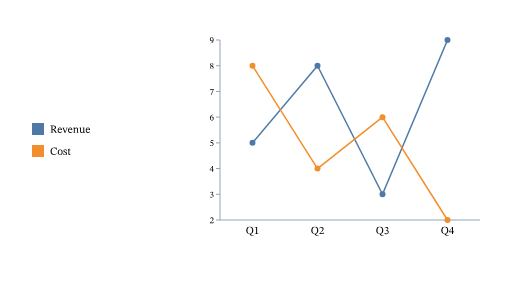
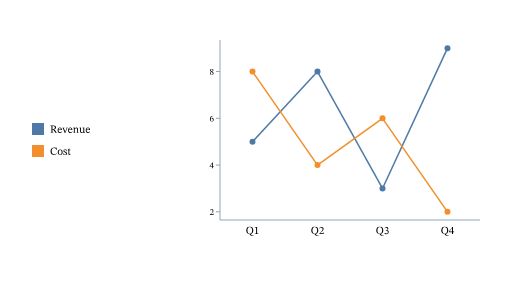
Polish: line/scatter domain padding + rounded state boxes (both mutant-proven)
Line/scatter pad the value domain 5% per end (degenerate span: max(1.0, 0.5|v|)) so extreme
points lift off the plot floor/ceiling; bars keep the signed zero-baseline domain (golden
byte-identical). State boxes draw as rounded-rect Paths (quadratic corners, r~8) via the
state styler — flowchart rects untouched (golden byte-identical), pseudostates unchanged.
Standing rule: both delete-mutants applied + observed failing (padding removal, styler
revert), restored, named in the report. 185 tests green.

diff --git a/src/main/java/com/sirentide/layout/StateDiagramLayout.java b/src/main/java/com/sirentide/layout/StateDiagramLayout.java
@@ -6,14 +6,15 @@ import com.sirentide.ir.StateDiagram;
 /// layered directed-graph engine (layering, cycle handling, edge routing, transition labels) through
 /// a state-flavored {@link NodeStyler}. The only difference from a flowchart is how a node is DRAWN:
 ///
-///   - a normal `state` → the same rect box the flowchart uses (fill inherited from the engine),
+///   - a normal `state` → a ROUNDED-rect {@link Path} (r≈8; softer than the flowchart's sharp rect,
+///     fill inherited from the engine),
 ///   - `[*]`-as-source (`__start__`, shape `"start"`) → a small filled disc,
 ///   - `[*]`-as-target (`__end__`, shape `"end"`) → a bullseye (three stacked discs).
 ///
 /// The pseudostates carry an EMPTY label (set by the parser), so the engine's label step draws no
 /// text on them; a real state keeps its centered glyph label. Edge/transition labels ride the
-/// engine's existing edge-label mechanism unchanged (FOLLOW-UP: rounded-corner state boxes — that
-/// needs a rounded-rect {@link Path}, not attempted in M1).
+/// engine's existing edge-label mechanism unchanged. The rounded box is a contract-clean `<path>`
+/// (H/V sides + Q corners) so it needs no new emitter/contract surface.
 public final class StateDiagramLayout {
 
     private StateDiagramLayout() {}
@@ -24,6 +25,7 @@ public final class StateDiagramLayout {
     private static final double END_OUTER_R = 8;           // bullseye outer disc
     private static final double END_MID_R = 6;             // bullseye white ring
     private static final double END_INNER_R = 4;           // bullseye dark centre
+    private static final double CORNER_R = 8;              // normal-state rounded-rect corner radius
 
     /// Reskin the flowchart engine's node boxes for state semantics. A full disc is a single
     /// two-arc {@link Wedge} (sweep 0→2π — the emitter draws the degenerate full circle as two
@@ -40,10 +42,40 @@ public final class StateDiagramLayout {
                 shapes.add(new Wedge(cx, cy, END_MID_R, 0, 2 * Math.PI, RING_BG));
                 shapes.add(new Wedge(cx, cy, END_INNER_R, 0, 2 * Math.PI, PSEUDO_FILL));
             }
-            // A normal state is the same rect the flowchart draws (never a diamond in a state diagram).
-            default -> shapes.add(new Rect(x, y, w, h, fill));
+            // A normal state is a ROUNDED-rect {@link Path} (r≈8) — softer than the flowchart's sharp
+            // Rect, drawn as a contract-clean `<path>`: H/V straight sides + Q quadratic corners (all
+            // in the path alphabet). Never a diamond in a state diagram; pseudostates stay discs above.
+            default -> shapes.add(new Path(roundedRect(x, y, w, h), fill));
         }
     };
+
+    /// A rounded-rectangle path for a normal state box: straight H/V sides with a Q quadratic at each
+    /// corner (radius {@link #CORNER_R}, clamped so it never exceeds half the box's smaller side).
+    ///   `M x+r,y  H x+w-r  Q x+w,y x+w,y+r  V y+h-r  Q x+w,y+h x+w-r,y+h
+    ///    H x+r    Q x,y+h x,y+h-r          V y+r     Q x,y x+r,y  Z`
+    private static String roundedRect(double x, double y, double w, double h) {
+        double r = Math.min(CORNER_R, Math.min(w, h) / 2);
+        return "M " + fmt(x + r) + " " + fmt(y)
+            + " H " + fmt(x + w - r)
+            + " Q " + fmt(x + w) + " " + fmt(y) + " " + fmt(x + w) + " " + fmt(y + r)
+            + " V " + fmt(y + h - r)
+            + " Q " + fmt(x + w) + " " + fmt(y + h) + " " + fmt(x + w - r) + " " + fmt(y + h)
+            + " H " + fmt(x + r)
+            + " Q " + fmt(x) + " " + fmt(y + h) + " " + fmt(x) + " " + fmt(y + h - r)
+            + " V " + fmt(y + r)
+            + " Q " + fmt(x) + " " + fmt(y) + " " + fmt(x + r) + " " + fmt(y)
+            + " Z";
+    }
+
+    /// Deterministic 3-dp number formatting (byte-identical bakes, docs/DESIGN.md §6) — mirrors the
+    /// flowchart engine's arrowhead formatter so state paths format identically.
+    private static String fmt(double v) {
+        if (!Double.isFinite(v)) {
+            v = 0.0;
+        }
+        double r = Math.round(v * 1000.0) / 1000.0;
+        return r == Math.rint(r) ? Long.toString((long) r) : Double.toString(r);
+    }
 
     public static LaidOut layout(StateDiagram sd) {
         return FlowchartLayout.layout(sd.graph(), STYLER);

diff --git a/src/test/java/com/sirentide/StateDiagramTest.java b/src/test/java/com/sirentide/StateDiagramTest.java
@@ -11,6 +11,7 @@ import com.sirentide.ir.FlowEdge;
 import com.sirentide.ir.FlowNode;
 import com.sirentide.ir.StateDiagram;
 import com.sirentide.layout.LaidOut;
+import com.sirentide.layout.Path;
 import com.sirentide.layout.Rect;
 import com.sirentide.layout.Shape;
 import com.sirentide.layout.StateDiagramLayout;
@@ -163,8 +164,25 @@ class StateDiagramTest {
         // The start pseudostate = ONE disc; the end bullseye = THREE stacked discs → 4 Wedges total.
         assertEquals(4, countShapes(laid, Wedge.class),
             "1 start disc + 3 bullseye discs (dark/white/dark)");
-        // The two normal states (Idle, Running) draw as rects — the pseudostates never do.
-        assertEquals(2, countShapes(laid, Rect.class), "one rect per NORMAL state, none for pseudostates");
+        // Normal states are ROUNDED-rect Paths now (Q-corner boxes), NOT sharp Rects — none anywhere.
+        assertEquals(0, countShapes(laid, Rect.class), "no sharp rects — states are rounded paths");
+    }
+
+    /// Each normal `state` box is a rounded-rect {@link Path} carrying Q (quadratic corner) commands
+    /// and NO {@link Rect} — the flowchart's sharp Rect was reskinned to a soft box. Arrowhead paths
+    /// are straight triangles (M/L/Z, no Q), so filtering on Q isolates exactly the state boxes.
+    @Test
+    void normalStatesAreRoundedRectPathsNotRects() {
+        LaidOut laid = StateDiagramLayout.layout(parse(LIFECYCLE));
+        long roundedBoxes = laid.shapes().stream()
+            .filter(s -> s instanceof Path)
+            .map(s -> ((Path) s).d())
+            .filter(d -> d.contains(" Q "))
+            .count();
+        assertEquals(2, roundedBoxes,
+            "each of the 2 normal states (Idle, Running) is a rounded-rect path with Q corners");
+        assertEquals(0, countShapes(laid, Rect.class),
+            "no sharp rects for a state box — rounded paths replace them");
     }
 
     @Test
@@ -193,7 +211,10 @@ class StateDiagramTest {
         // Idle↔Running is a cycle; the engine's back-edge handling must terminate and still render
         // both states (the styler seam doesn't touch layering).
         LaidOut laid = StateDiagramLayout.layout(parse(LIFECYCLE));
-        assertEquals(2, countShapes(laid, Rect.class), "both cyclic states render");
+        long roundedBoxes = laid.shapes().stream()
+            .filter(s -> s instanceof Path).map(s -> ((Path) s).d())
+            .filter(d -> d.contains(" Q ")).count();
+        assertEquals(2, roundedBoxes, "both cyclic states render as rounded-rect paths");
         String svg = Sirentide.render(LIFECYCLE);
         assertNotNull(svg);
         assertTrue(svg.startsWith("<svg"), "the cycle still renders a valid svg");

diff --git a/src/test/java/com/sirentide/XyLineScatterTest.java b/src/test/java/com/sirentide/XyLineScatterTest.java
@@ -7,6 +7,9 @@ import static org.junit.jupiter.api.Assertions.assertTrue;
 import com.sirentide.api.Sirentide;
 import com.sirentide.ir.Diagram;
 import com.sirentide.ir.XyChart;
+import com.sirentide.layout.LaidOut;
+import com.sirentide.layout.Wedge;
+import com.sirentide.layout.XyChartLayout;
 import com.sirentide.parse.DslParser;
 import org.junit.jupiter.api.Test;
 
@@ -145,6 +148,28 @@ class XyLineScatterTest {
         // One series + legend → nothing to key: no swatch column, canvas not widened.
         String svg = Sirentide.render("xychart legend\n\"Jan\" : 5\n\"Feb\" : 8\n");
         assertEquals(320, svgWidth(svg), "single-series legend is ignored — canvas unchanged");
+    }
+
+    @Test
+    void lineDomainPadsSoExtremePointsClearThePlotEdges() {
+        // Line/scatter pad the value domain by 5% of the span, so the min-value dot no longer sits ON
+        // the plot floor nor the max-value dot ON the ceiling. For a no-legend chart the plot band is
+        // [plotTop=20, plotBottom=200] (MT=20, canvasH=240, MB=40). Disc centres (Wedge.cy) of the
+        // extreme points must land STRICTLY inside that band by >2px — with the raw domain they'd be
+        // exactly 20 (max) and 200 (min). Single-value rows in line mode still route to the point path.
+        XyChart chart = (XyChart) DslParser.parse("xychart line\n\"Jan\" : 5\n\"Feb\" : 8\n\"Mar\" : 3\n");
+        LaidOut laid = XyChartLayout.layout(chart);
+        double plotTop = 20;
+        double plotBottom = 200;
+        java.util.List<Double> discY = laid.shapes().stream()
+            .filter(s -> s instanceof Wedge).map(s -> ((Wedge) s).cy()).toList();
+        assertEquals(3, discY.size(), "one disc per point (3 categories, 1 series)");
+        double topDot = discY.stream().min(Double::compare).orElseThrow();      // the MAX value (8)
+        double bottomDot = discY.stream().max(Double::compare).orElseThrow();   // the MIN value (3)
+        assertTrue(topDot > plotTop + 2,
+            "max-value dot clears the plot ceiling by >2px (padded): cy=" + topDot);
+        assertTrue(bottomDot < plotBottom - 2,
+            "min-value dot clears the plot floor by >2px (padded): cy=" + bottomDot);
     }
 
     @Test

diff --git a/src/main/java/com/sirentide/layout/XyChartLayout.java b/src/main/java/com/sirentide/layout/XyChartLayout.java
@@ -199,9 +199,22 @@ public final class XyChartLayout {
             hi = 0;
         }
         boolean grouped = mode.equals("bars");
-        AxisScale axis = grouped
-            ? new AxisScale(Math.min(0, lo), Math.max(0, hi))
-            : new AxisScale(lo, hi);
+        AxisScale axis;
+        if (grouped) {
+            // Grouped bars keep the SIGNED zero-baseline domain — unchanged, byte-identical output.
+            axis = new AxisScale(Math.min(0, lo), Math.max(0, hi));
+        } else {
+            // Line / scatter: PAD the value domain by 5% of the span on each end so a min-value point
+            // doesn't sit ON the plot floor and a max-value point ON the ceiling (dots visually clipped
+            // against the axis edge). Bars never pad (they grow from a fixed zero baseline, above).
+            // DEGENERATE span (all values equal, or a single point → span 0): there is no span to take
+            // 5% of, so pad by max(1.0, half the |value|). The 1.0 floor keeps a near-zero value clear
+            // of the edges; half the magnitude keeps a large single value visibly inset rather than
+            // pinned to the plot midpoint's neighbours. Ticks stay within the PADDED [min,max].
+            double span = hi - lo;
+            double pad = span > 0 ? 0.05 * span : Math.max(1.0, 0.5 * Math.abs(lo));
+            axis = new AxisScale(lo - pad, hi + pad);
+        }
         double baselineY = grouped ? axis.project(0, plotBottom, plotTop) : plotBottom;
 
         // y-axis (full height) + the baseline x-axis.

diff --git a/src/test/java/com/sirentide/StateColonLabelTest.java b/src/test/java/com/sirentide/StateColonLabelTest.java
@@ -22,9 +22,24 @@ class StateColonLabelTest {
         // the spaced form always worked; the others must now match it exactly
         assertEquals(spaced, noBefore, "'B: go' must render identically to 'B : go'");
         assertEquals(spaced, noAfter,  "'B :go' must render identically to 'B : go'");
-        // and it's a real diagram (two state boxes), not the inert shell
+        // and it's a real diagram (two state boxes), not the inert shell. State boxes are now
+        // rounded-rect <path>s (H/V sides + Q corners); the H/V commands are emitted ONLY by that box,
+        // so a path carrying " H " is exactly one state box (glyph/arrowhead paths use only M/L/Q/A/Z).
         assertFalse(spaced.contains("width=\"120\""), "must not be the blank degrade shell");
-        assertEquals(2, spaced.split("<rect", -1).length - 1, "two state boxes: A and B");
+        assertEquals(2, stateBoxes(spaced), "two state boxes: A and B");
+    }
+
+    /// Count rounded-rect state boxes: each is a single <path> whose data carries a horizontal-lineto
+    /// (" H "), a command only the state box emits (never a glyph or arrowhead path).
+    private static int stateBoxes(String svg) {
+        int n = 0;
+        for (int i = svg.indexOf("<path"); i >= 0; i = svg.indexOf("<path", i + 1)) {
+            int end = svg.indexOf("/>", i);
+            if (end > 0 && svg.substring(i, end).contains(" H ")) {
+                n++;
+            }
+        }
+        return n;
     }
 
     @Test